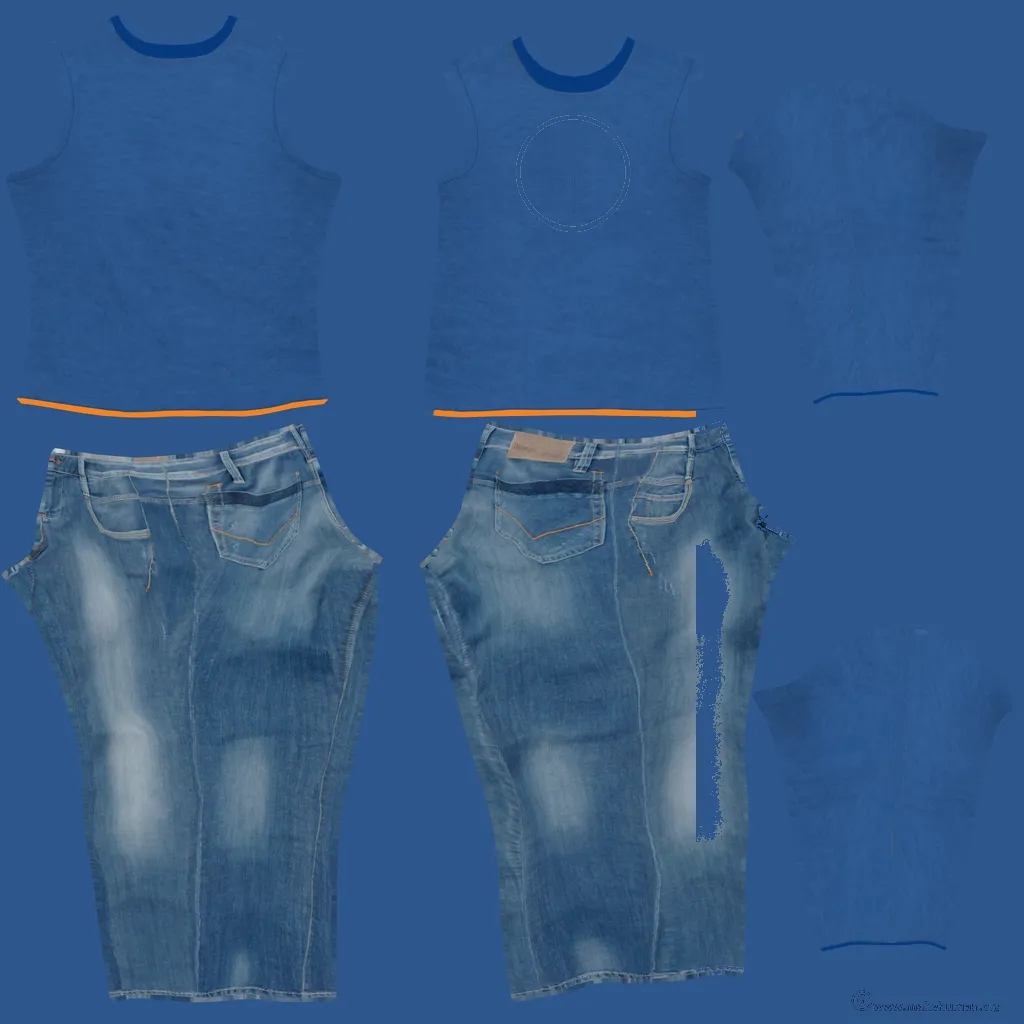
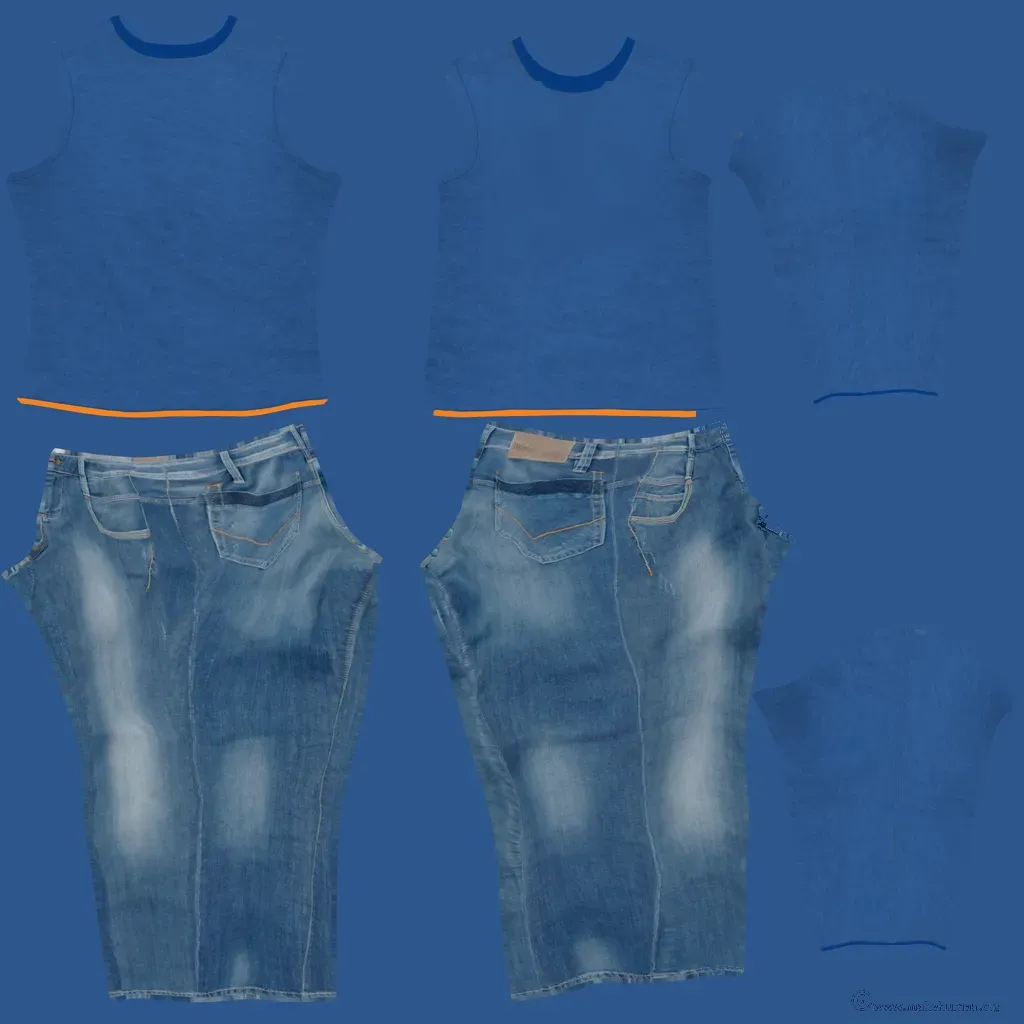
Personas reales: lentes, sombreros, cascos, auriculares, vendas y bufandas calzan en el cuerpo real
Lo que una persona lleva en la cabeza pasa al cráneo real, medido en cada cuerpo, y lo
sigue al moverse. Bajo gorra, gorro o casco el pelo va corto. Las mochilas y bolsos de
caja no se dibujan sobre un cuerpo real. Se quitan los restos del logo del fabricante
en dos prendas y se repone un tramo de jean que había quedado tapado.

Claude-Session: https://claude.ai/code/session_01JUjWx7HUGnLXLF1h6SYnCV

Changed region(s): [[0.6562, 0.5312, 0.7188, 0.8125]]

diff --git a/app/mundo-real/persona.ts b/app/mundo-real/persona.ts
@@ -9,7 +9,7 @@
 import * as THREE from 'three';
 import { GLTFLoader } from 'three/addons/loaders/GLTFLoader.js';
 import { clone as cloneSkinned } from 'three/addons/utils/SkeletonUtils.js';
-import { personHooks, type Person } from '../noche-abierta/people3d';
+import { HEAD_R, HEAD_Y, personHooks, type Person } from '../noche-abierta/people3d';
 
 type PartName = keyof Person['parts'];
 // Which procedural part turns each bone. Bones not listed keep their bind pose relative to their parent.
@@ -28,6 +28,18 @@ const DRIVERS: Record<string, { part: PartName; limb?: boolean; blend?: [PartNam
 // Hip joint height of the procedural figure at scale 1 (thigh + shin + ankle).
 const HIP_JOINT = 0.9, HIP_DROP = 0.05;
 const HIDDEN_LAYER = 31;
+// Pieces a person wears, by the name of their shape in people3d.
+const ON_HEAD = /^(glasses|earrings|bandage|cap|beanie|fedora|helmet|headphones|bruise|wound-cut)$/;
+// Hats were shaped for a drawn head with a low brow and thick hair: how each is moved up and flattened to sit on a real one.
+const HATS: Record<string, { up: number; tall: number; wide: number }> = {
+  cap: { up: -0.012, tall: 1.04, wide: 1.02 }, beanie: { up: -0.004, tall: 1.04, wide: 1.07 }, helmet: { up: -0.004, tall: 0.94, wide: 1 },
+  fedora: { up: -0.03, tall: 1, wide: 1 }, bandage: { up: 0, tall: 1, wide: 0.93 },
+};
+// Scarves stay; the boxy backpacks and shoulder bags of the drawn people do not belong on a real body.
+const ON_TORSO = /^scarf$/;
+// The measured skull is wider than the head people3d draws (ears) and deeper (nose): how much of each half size counts.
+const HEAD_FIT = { x: 0.92, y: 1, z: 1 };
+const HEAD_LIFT = -0.04, HEAD_PUSH = -0.12;
 
 export type Template = {
   scene: THREE.Object3D;
@@ -39,6 +51,8 @@ export type Template = {
   bind: Map<string, THREE.Quaternion>;
   /** Midpoint of the hip joints in the pelvis bone's own frame. */
   hipsInPelvis: THREE.Vector3;
+  /** The skull: its centre in the head bone's frame and its half sizes along the model's own axes. */
+  head: { center: THREE.Vector3; radius: THREE.Vector3 };
 };
 
 const DOWN = new THREE.Vector3(0, -1, 0);
@@ -81,7 +95,19 @@ export function prepareTemplate(scene: THREE.Object3D): Template {
     if (!mesh.geometry.boundingBox) mesh.geometry.computeBoundingBox();
     floor = Math.min(floor, (mesh.geometry.boundingBox as THREE.Box3).min.y);
   });
-  return { scene, hipHeight: hips.y - floor, floor, bind, hipsInPelvis: hips.clone().applyMatrix4(inverseOf('pelvis')) };
+  // The skull, from the skin that follows the head bone alone: where glasses, hats and beards are fitted.
+  const body = skinned as unknown as THREE.SkinnedMesh;
+  const headIndex = bones.findIndex(b => b.name === 'head');
+  const pos = body.geometry.attributes.position, si = body.geometry.attributes.skinIndex, sw = body.geometry.attributes.skinWeight;
+  const box = new THREE.Box3(), v = new THREE.Vector3();
+  for (let i = 0; i < pos.count; i++) {
+    let w = 0;
+    for (let k = 0; k < 4; k++) if (si.getComponent(i, k) === headIndex) w += sw.getComponent(i, k);
+    if (w > 0.98) box.expandByPoint(v.fromBufferAttribute(pos, i).applyMatrix4(body.bindMatrix));
+  }
+  // Kept in the head bone's own frame, so it stays on the skull whatever the bone does.
+  const head = { center: box.getCenter(new THREE.Vector3()).applyMatrix4(boneInverses[headIndex]), radius: box.getSize(new THREE.Vector3()).multiplyScalar(0.5) };
+  return { scene, hipHeight: hips.y - floor, floor, bind, hipsInPelvis: hips.clone().applyMatrix4(inverseOf('pelvis')), head };
 }
 
 const cache = new Map<string, Promise<Template>>();
@@ -201,6 +227,8 @@ function uncovered(geometry: THREE.BufferGeometry, bits: number) {
 export async function makeReal(person: Person) {
   const L = person.rig.full;
   const w = wardrobe(L);
+  // Under a cap, a beanie or a helmet the hair is cropped, so it does not come through.
+  person.rig.body.traverse(o => { if (w.hair && /^(cap|beanie|helmet)$/.test((o as THREE.Mesh).geometry?.name ?? '')) w.hair = 'short04'; });
   const [cat, template, outfit, shoes, hair] = await Promise.all([
     loadCatalogue(), loadTemplate(`${GENTE}${w.body}/cuerpo.glb`), loadPiece(w.body, w.outfit), loadPiece(w.body, w.shoes), w.hair ? loadPiece(w.body, w.hair) : null,
   ]);
@@ -269,8 +297,12 @@ export function attachRealBody(person: Person, template: Template, model: THREE.
   const props = new Set<THREE.Object3D>(rig.props.values());
   if (rig.handheld) props.add(rig.handheld);
   const carried = hands.map(h => h.children.filter(c => props.has(c)));
+  const onHead: THREE.Object3D[] = [];
   const hide = (o: THREE.Object3D) => {
     if (props.has(o)) return;
+    const piece = (o as THREE.Mesh).isMesh ? (o as THREE.Mesh).geometry.name : '';
+    if (ON_TORSO.test(piece)) return;
+    if (ON_HEAD.test(piece)) { onHead.push(o); return; }
     if ((o as THREE.Mesh).isMesh) o.layers.set(HIDDEN_LAYER);
     for (const c of o.children) hide(c);
   };
@@ -323,6 +355,22 @@ export function attachRealBody(person: Person, template: Template, model: THREE.
   });
   rig.handL = holds[0].group; rig.handR = holds[1].group;
 
+  // What is worn on the head moves to the real skull, fitted to its size.
+  const headBone = driven.find(d => d.bone.name === 'head')!.bone;
+  const worn = new THREE.Group(), fit = new THREE.Group();
+  if (onHead.length) {
+    const r = template.head.radius;
+    worn.scale.set((r.x * scale * girth * HEAD_FIT.x) / HEAD_R.x, (r.y * scale * HEAD_FIT.y) / HEAD_R.y, (r.z * scale * girth * HEAD_FIT.z) / HEAD_R.z);
+    fit.position.set(0, -HEAD_Y, 0);
+    worn.add(fit);
+    person.root.add(worn);
+    for (const o of onHead) {
+      fit.add(o);
+      const hat = HATS[(o as THREE.Mesh).geometry.name];
+      if (hat) { o.position.y += hat.up; o.scale.multiply(va.set(hat.wide, hat.tall, hat.wide)); }
+    }
+  }
+
   const faces: Face[] = [];
   model.traverse(o => {
     const mesh = o as THREE.Mesh;
@@ -371,6 +419,14 @@ export function attachRealBody(person: Person, template: Template, model: THREE.
     setMorph('open', clamp(n.open, 0, 1) * 0.55);
     for (const m of mouth) m.visible = n.open > 0.04 || n.teeth > 0.3;
     setMorph('pucker', clamp(n.pucker, 0, 1));
+
+    if (onHead.length) {
+      headBone.updateWorldMatrix(true, false);
+      person.root.worldToLocal(worn.position.copy(template.head.center).applyMatrix4(headBone.matrixWorld));
+      partQ(person.parts.head, worn.quaternion);
+      const r = template.head.radius;
+      worn.position.add(va.set(0, r.y * HEAD_LIFT * scale, r.z * HEAD_PUSH * scale * girth).applyQuaternion(worn.quaternion));
+    }
 
     // Held things.
     for (const h of holds) {

diff --git a/app/noche-abierta/people3d.ts b/app/noche-abierta/people3d.ts
@@ -132,6 +132,8 @@ function cached(key: string, make: () => THREE.BufferGeometry) {
   let value = geometryCache.get(key);
   if (!value) {
     value = make();
+    // The key names the piece: worlds that put another body on a person find what is worn by it.
+    value.name = key;
     geometryCache.set(key, value);
   }
   return value;
@@ -198,9 +200,9 @@ function lightness(color: string) {
 // ------------------------------------------------------------------ head
 
 // The head is a unit sphere scaled to these radii (metres).
-const HEAD_R = { x: 0.092, y: 0.118, z: 0.106 };
+export const HEAD_R = { x: 0.092, y: 0.118, z: 0.106 };
 // Head centre above the head pivot (top of the neck).
-const HEAD_Y = 0.112;
+export const HEAD_Y = 0.112;
 
 // A skull that narrows into jaw and chin, flatter at the back of the neck.
 function shapeHead(v: THREE.Vector3) {

diff --git a/scripts/mundo-real/retoque.py b/scripts/mundo-real/retoque.py
@@ -1,0 +1,29 @@
+"""Second pass over the packed outfit textures: takes off what the first pass left of the maker's marks.
+
+Run from the repository root after pack2.py:  python3 scripts/mundo-real/retoque.py <folder with the original clothes>
+"""
+import sys
+from PIL import Image, ImageFilter
+
+TEX = 'public/mundo-real/gente/tex/'
+# Thin outlines of the logos that survived as fabric-coloured pixels: a wide median leaves only the cloth.
+SMOOTH = {
+    'male_casualsuit06_diffuse': [(0.18, 0.09, 0.30, 0.18), (0.42, 0.09, 0.60, 0.23)],
+    'male_casualsuit02_diffuse': [(0.48, 0.08, 0.64, 0.25)],
+}
+# Parts of another garment that the first pass painted over: taken again from the original.
+RESTORE = {'male_casualsuit02_diffuse': ('male_casualsuit02/male_casualsuit02_diffuse.png', [(0.66, 0.50, 0.725, 0.84)])}
+
+for name, boxes in SMOOTH.items():
+    img = Image.open(TEX + name + '.webp').convert('RGB'); w, h = img.size
+    if name in RESTORE and len(sys.argv) > 1:
+        src = Image.open(f'{sys.argv[1]}/{RESTORE[name][0]}').convert('RGB').resize((w, h), Image.LANCZOS)
+        for x0, y0, x1, y1 in RESTORE[name][1]:
+            box = (int(x0 * w), int(y0 * h), int(x1 * w), int(y1 * h)); img.paste(src.crop(box), box)
+    for x0, y0, x1, y1 in boxes:
+        box = (int(x0 * w), int(y0 * h), int(x1 * w), int(y1 * h))
+        patch = img.crop(box)
+        for _ in range(2): patch = patch.filter(ImageFilter.MedianFilter(17))
+        img.paste(patch, box)
+    img.save(TEX + name + '.webp', 'WEBP', quality=80)
+    print(name, 'ok')
